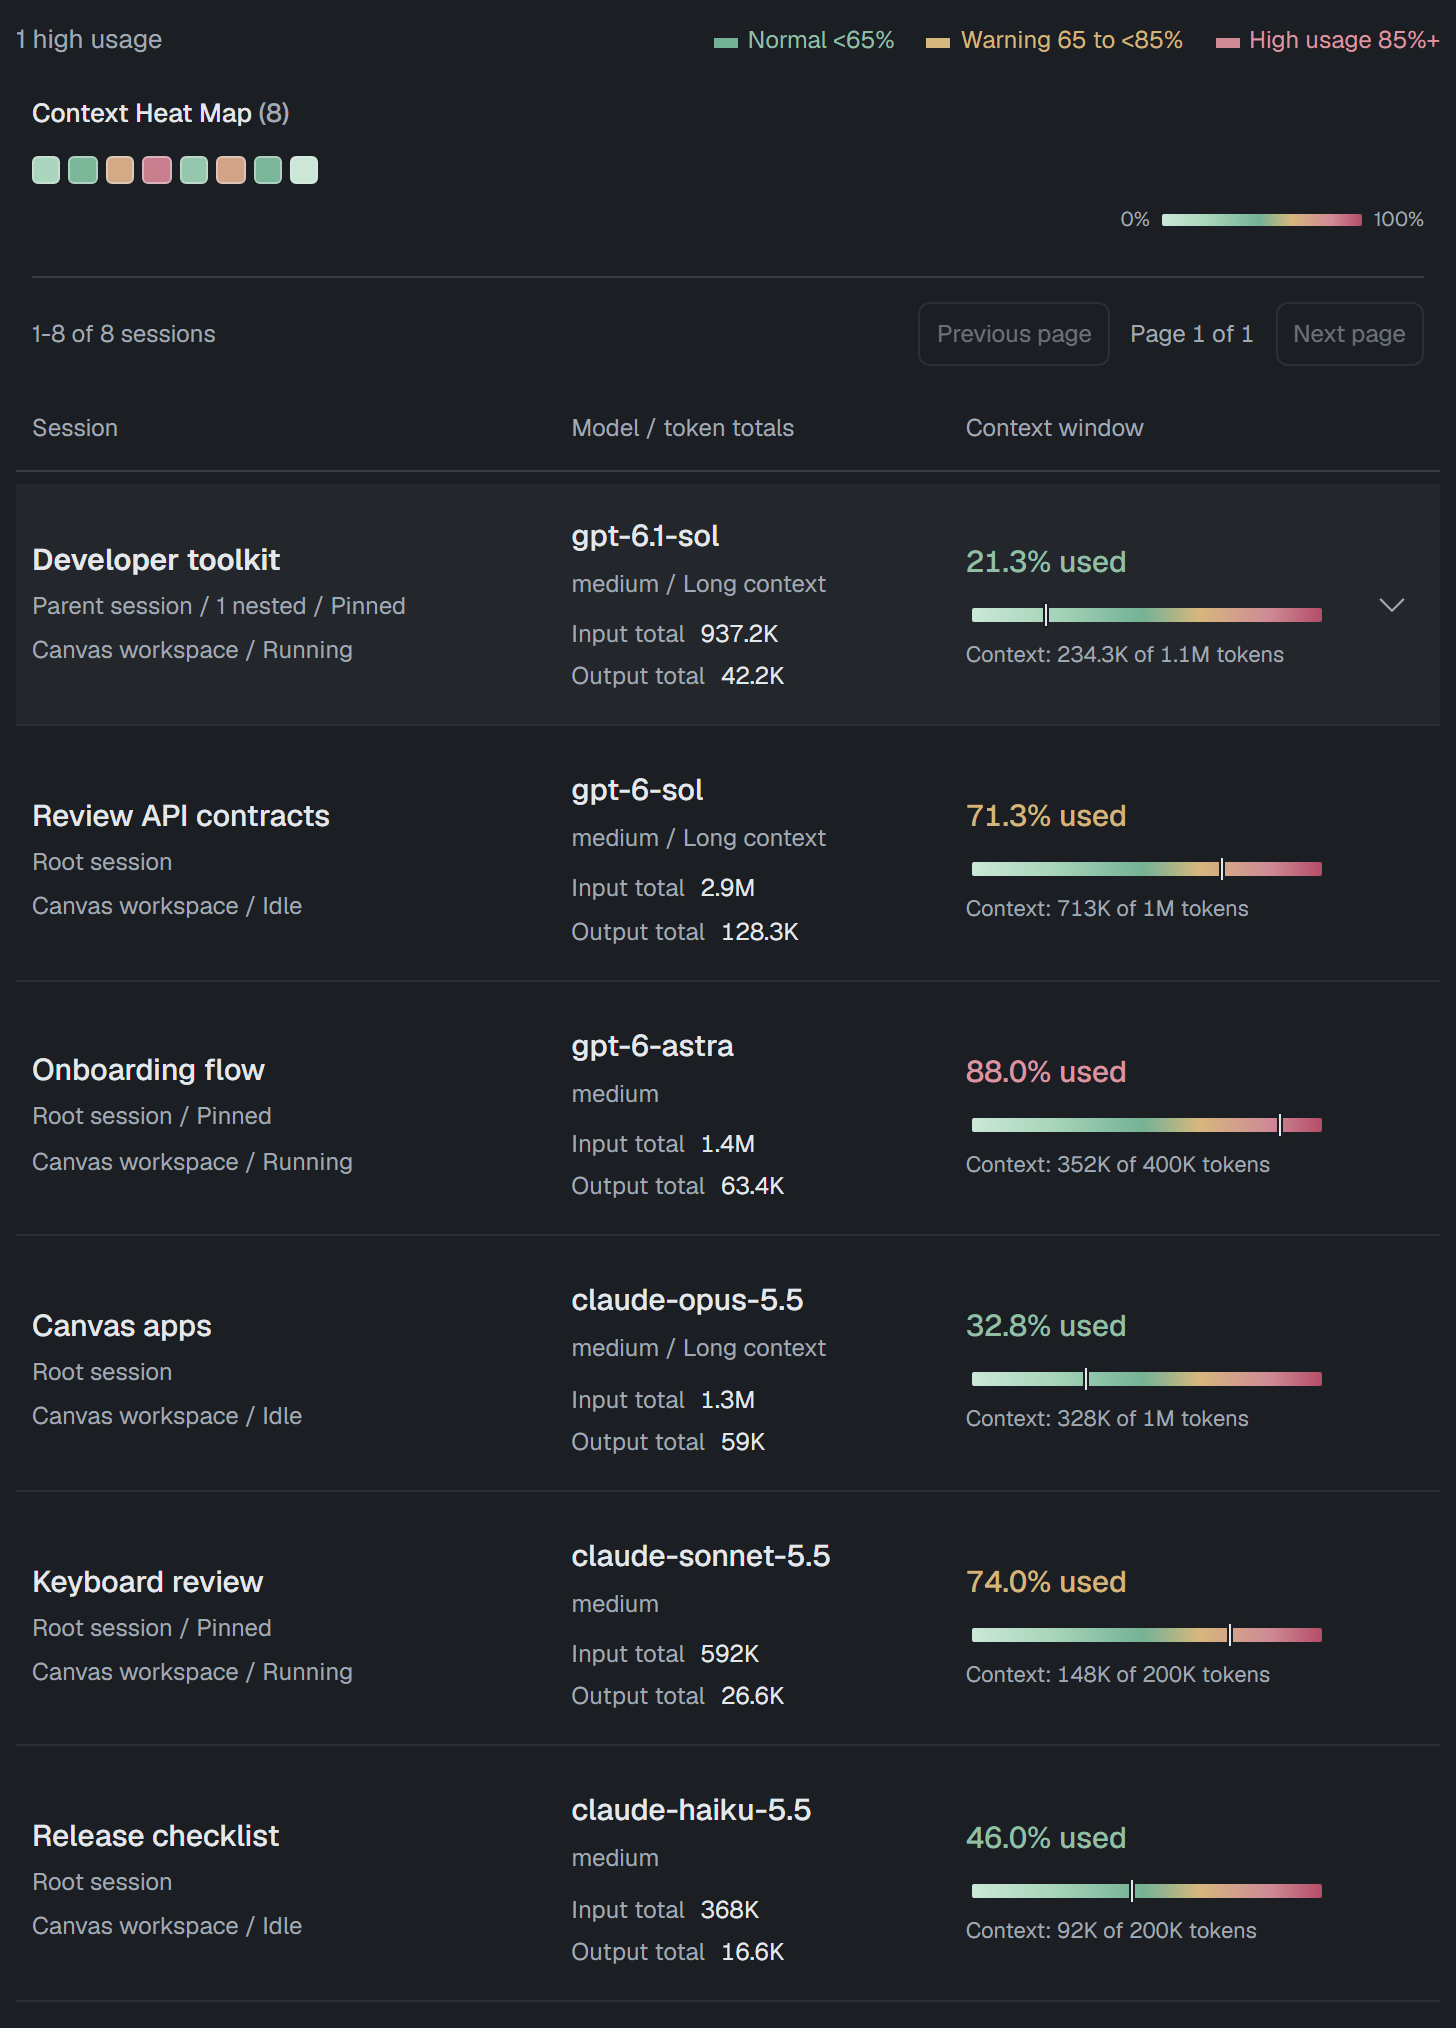
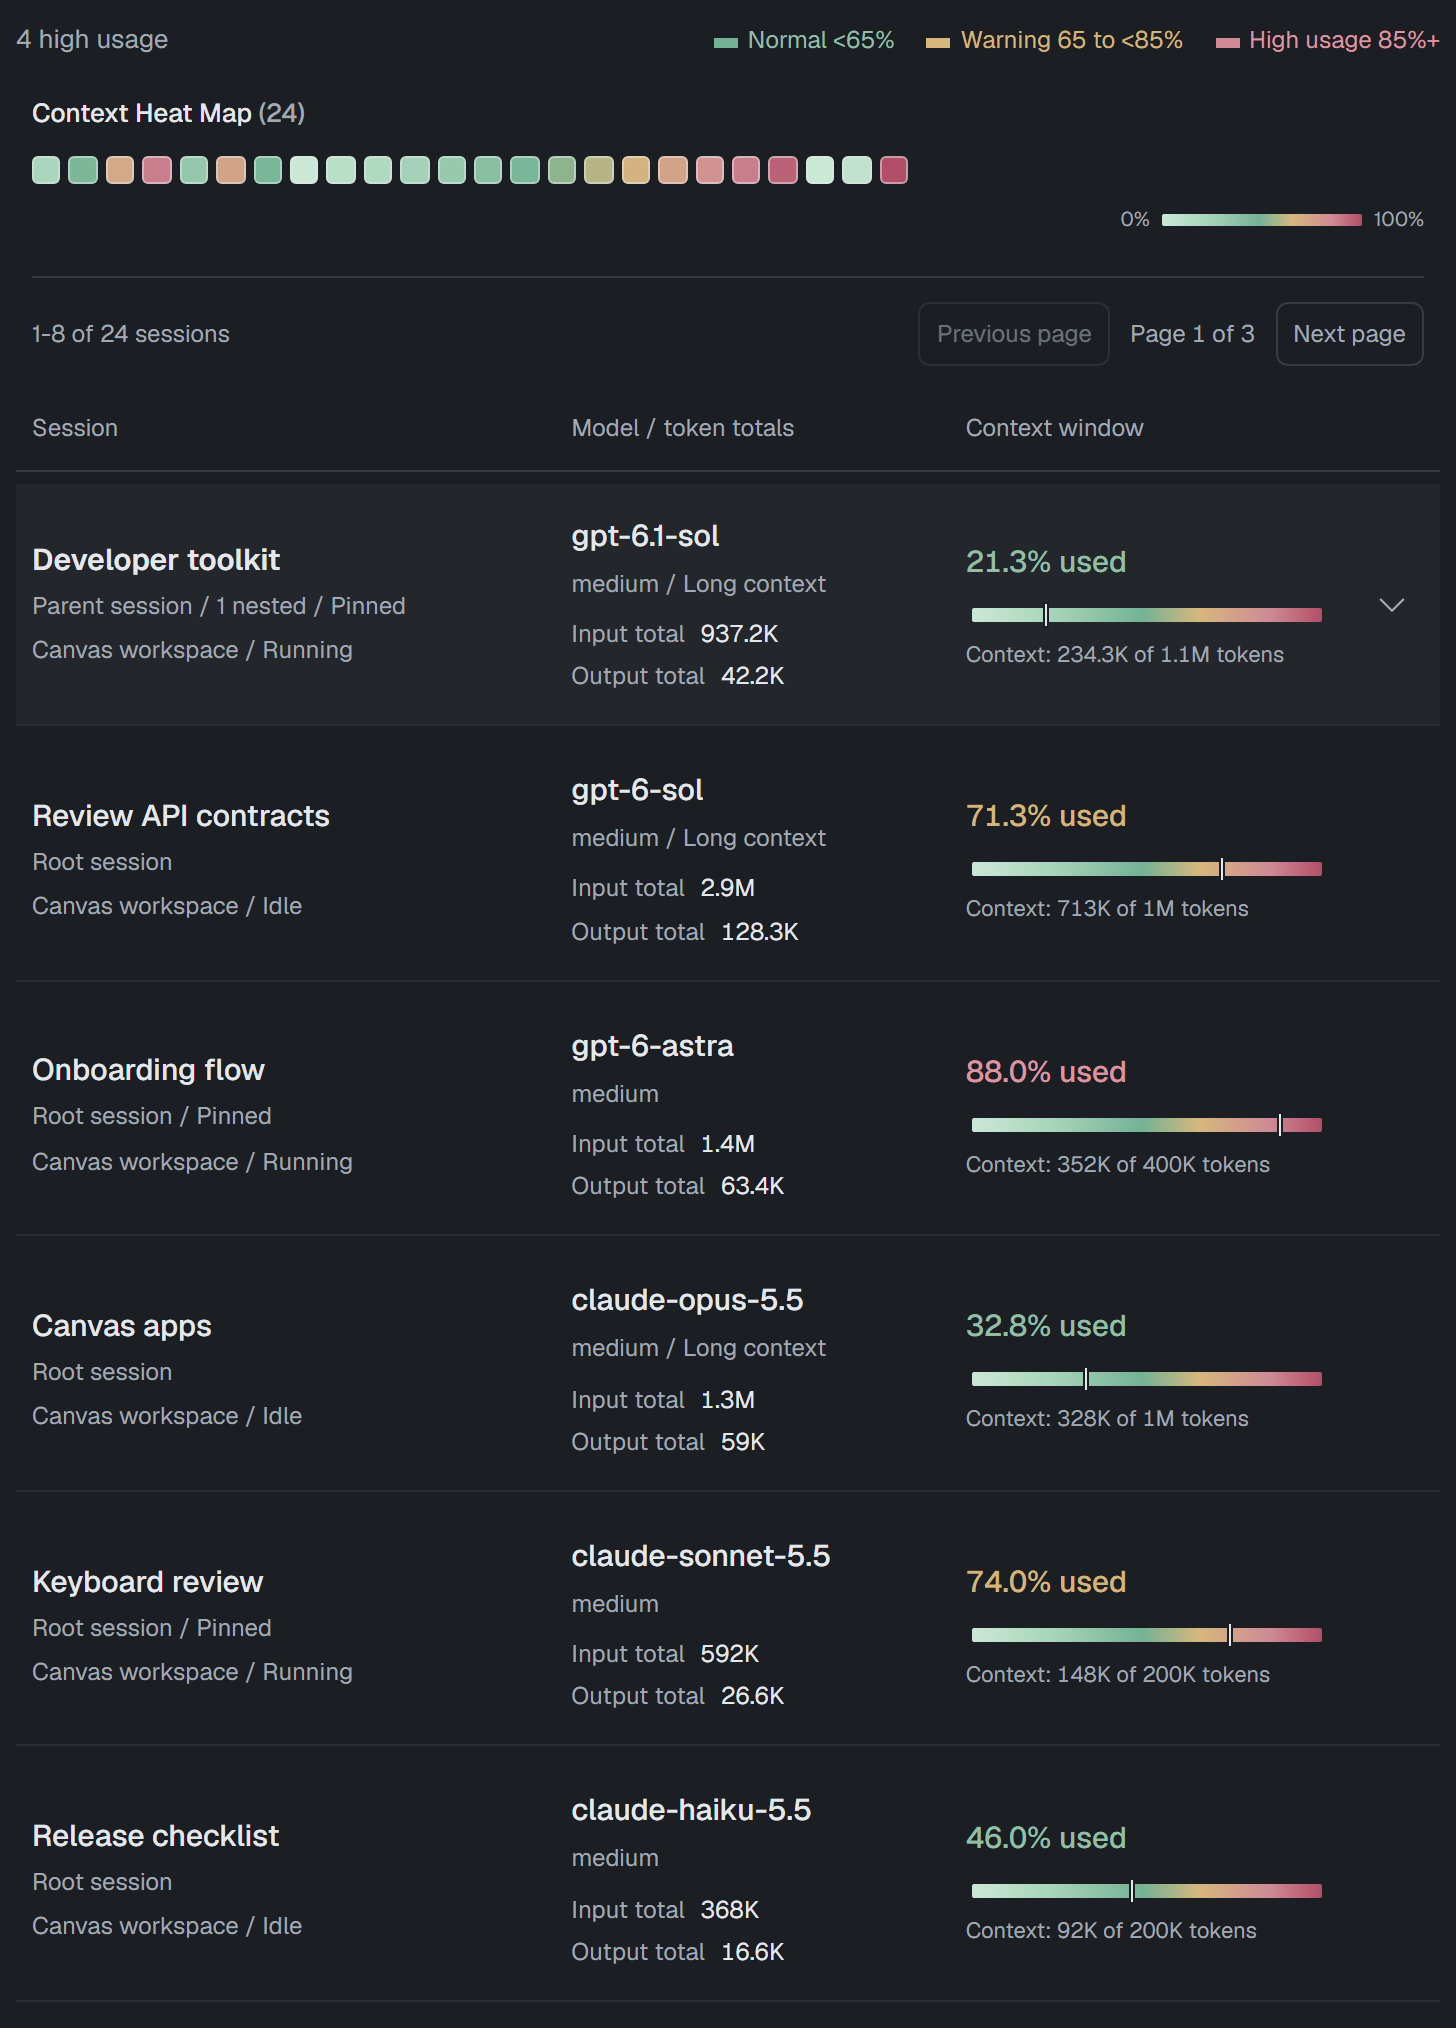
Keep the context heat map global while paginating only the session list
Render every filtered session in the map, preserve its count and coverage across list pages, and navigate to the containing page when a tile is selected. Refresh dark previews and documentation.

Copilot-Session: 00babc8b-3aa2-4873-a4ea-72e82f7c85ed

diff --git a/apps/context-monitor/app.js b/apps/context-monitor/app.js
@@ -43,6 +43,7 @@ let listedModels = null;
 let heatFocusId = null;
 let currentGradient = null;
 let page = 1;
+let matchingSessions = [];
 const exact = (value) => value === null ? "Not reported" : value.toLocaleString();
 const compact = (value) => value === null ? "?" : new Intl.NumberFormat(undefined, { notation: "compact", maximumFractionDigits: 1 }).format(value);
 const levelLabel = { healthy: "Normal", watch: "Warning", high: "High usage", unknown: "Not reported" };
@@ -198,6 +199,13 @@ function renderHeatmap(sessions, scale) {
 }
 
 function showHeatSession(id) {
+    const index = matchingSessions.findIndex((session) => session.id === id);
+    if (index < 0) {
+        errorBox.textContent = "That session is no longer in this view. Refresh to try again.";
+        errorBox.hidden = false;
+        return;
+    }
+    page = Math.floor(index / Number(pageSize.value)) + 1;
     const byId = new Map(snapshot.sessions.map((session) => [session.id, session]));
     const seen = new Set();
     let current = byId.get(id);
@@ -374,18 +382,19 @@ function render() {
     }
     const matching = visibleTree(sessions, { ...filters(), includeArchived: archived.checked, sort: sortBy.value })
         .filter((session) => session.matching);
+    matchingSessions = matching;
     const pagination = paginateSessions(matching, page, Number(pageSize.value));
     page = pagination.page;
     const pageIds = new Set(pagination.sessions.map((session) => session.id));
     const visible = visibleTree(sessions, { ...filters(), includeArchived: archived.checked, collapsed, sort: sortBy.value, sessionIds: pageIds });
-    renderHeatmap(pagination.sessions, scale);
+    renderHeatmap(matching, scale);
     paginationRegion.hidden = matching.length === 0;
     document.getElementById("page-range").textContent = `${pagination.start}-${pagination.end} of ${pagination.matching} sessions`;
     document.getElementById("page-status").textContent = `Page ${pagination.page} of ${pagination.pages}`;
     previousPage.disabled = page === 1;
     nextPage.disabled = page === pagination.pages;
-    const high = pagination.sessions.filter((session) => session.context.level === "high").length;
-    const missing = pagination.sessions.filter((session) => session.context.level === "unknown").length;
+    const high = matching.filter((session) => session.context.level === "high").length;
+    const missing = matching.filter((session) => session.context.level === "unknown").length;
     const parentsShown = visible.filter((session) => !session.matching).length;
     count.textContent = [
         parentsShown ? `${parentsShown} ${parentsShown === 1 ? "parent" : "parents"} shown for context` : "",

diff --git a/apps/context-monitor/index.html b/apps/context-monitor/index.html
@@ -56,7 +56,7 @@
                     </select>
                 </div>
                 <div class="page-size-choice">
-                    <label for="page-size">Sessions per page</label>
+                    <label for="page-size">List sessions per page</label>
                     <select id="page-size"><option value="8" selected>8</option><option value="16">16</option><option value="32">32</option></select>
                 </div>
                 <div class="scope-filters">
@@ -104,9 +104,9 @@
             </div>
             <div id="heatmap" class="heatmap-grid" role="group" aria-label="Session context usage" aria-describedby="heatmap-help" aria-busy="true"></div>
             <div class="heatmap-key"><span>0%</span><span id="heatmap-scale" class="scale-key" aria-hidden="true"></span><span>100%</span><span id="heatmap-missing-key" class="unknown-key" title="The app has not reported a complete context reading. This is not 0% usage.">No context data</span></div>
-            <p id="heatmap-help" class="sr-only">One tile per matching session on this page, including collapsed nested sessions. Use arrow keys to move between tiles, then Enter to show that session.</p>
+            <p id="heatmap-help" class="sr-only">One tile per matching session across all list pages, including collapsed nested sessions. Use arrow keys to move between tiles, then Enter to open that session's list page.</p>
         </section>
-        <nav id="pagination" aria-label="Session pages" hidden>
+        <nav id="pagination" aria-label="Session list pages" hidden>
             <span id="page-range" role="status"></span>
             <div class="page-buttons">
                 <button id="page-previous" type="button" aria-label="Previous page">Previous page</button>

diff --git a/apps/context-monitor/README.md b/apps/context-monitor/README.md
@@ -2,7 +2,7 @@
 
 See your GitHub Copilot app sessions, models, and context usage in one canvas.
 
-<a href="screenshot-full.png?v=dd9c3b9a6957"><img src="screenshot.png?v=2afc152792d1" alt="Context Monitor with paged sessions, a heat map, gradient usage bars, and sample GPT-6, GPT-6.1, and Claude sessions" width="640"></a>
+<a href="screenshot-full.png?v=37b4d151da0b"><img src="screenshot.png?v=fc7c961b61e9" alt="Context Monitor with paged sessions, a heat map, gradient usage bars, and sample GPT-6, GPT-6.1, and Claude sessions" width="640"></a>
 
 ## Use in the GitHub Copilot app
 
@@ -19,7 +19,7 @@ Install in personal scope to make Context Monitor available from Canvas apps acr
 
 Filter by model, pinned sessions, or context usage. Use the arrow at the end of a parent row to show its nested sessions.
 
-Use Previous page and Next page to browse 8, 16, or 32 sessions at a time. The heat map counts only the tiles on that page, including collapsed sessions. Select a tile to inspect it.
+Use Previous page and Next page to browse 8, 16, or 32 sessions at a time. Paging applies only to the list. The heat map covers all filtered sessions; select a tile to open its list page.
 
 Sessions without context data are hidden by default. Check Include sessions without context data to show them. They have no reported context reading, not 0% usage.
 
